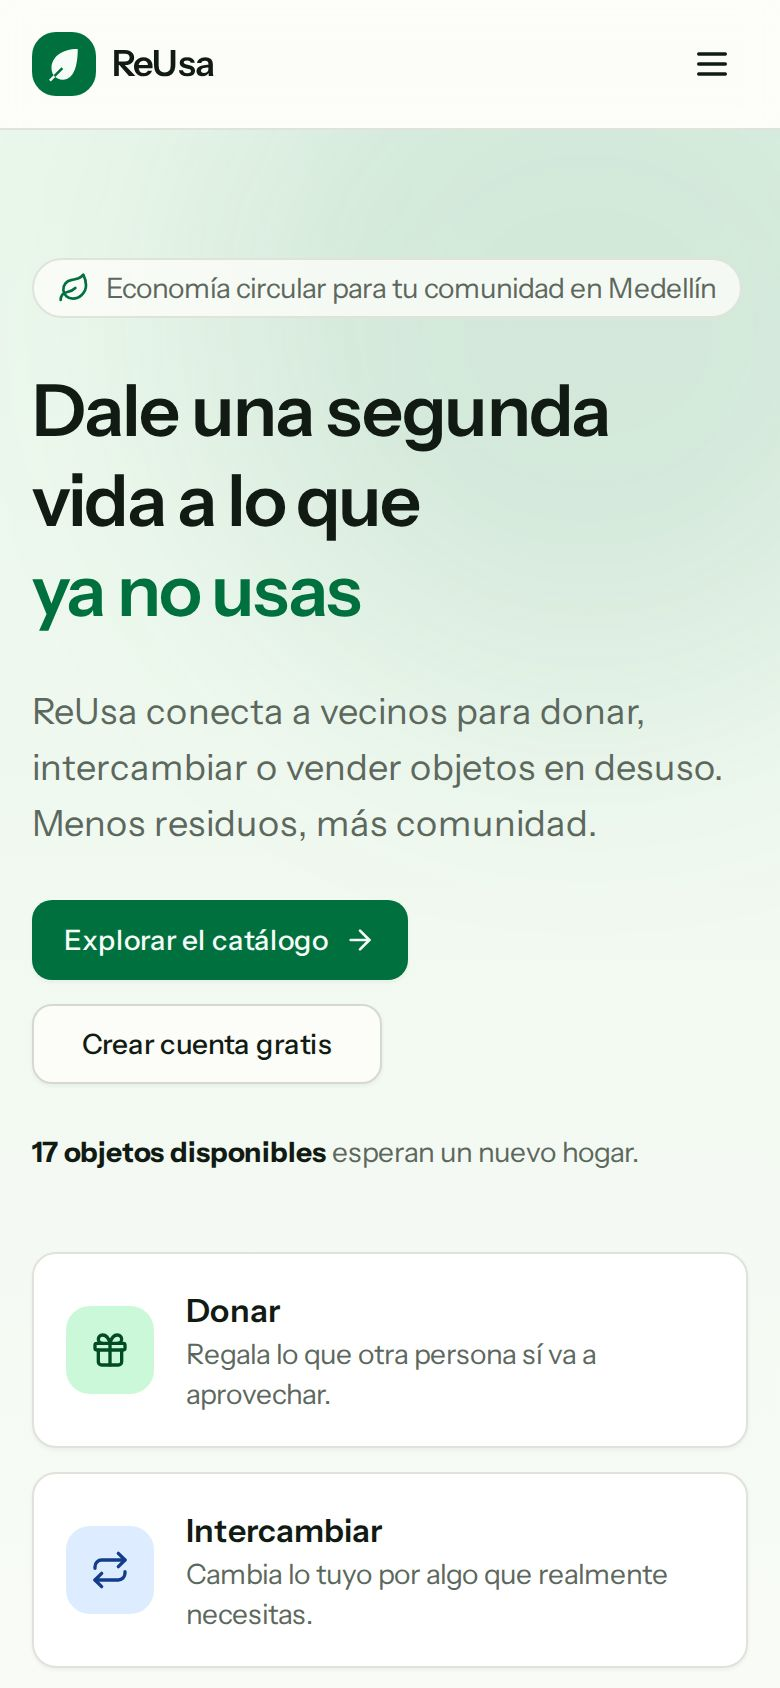
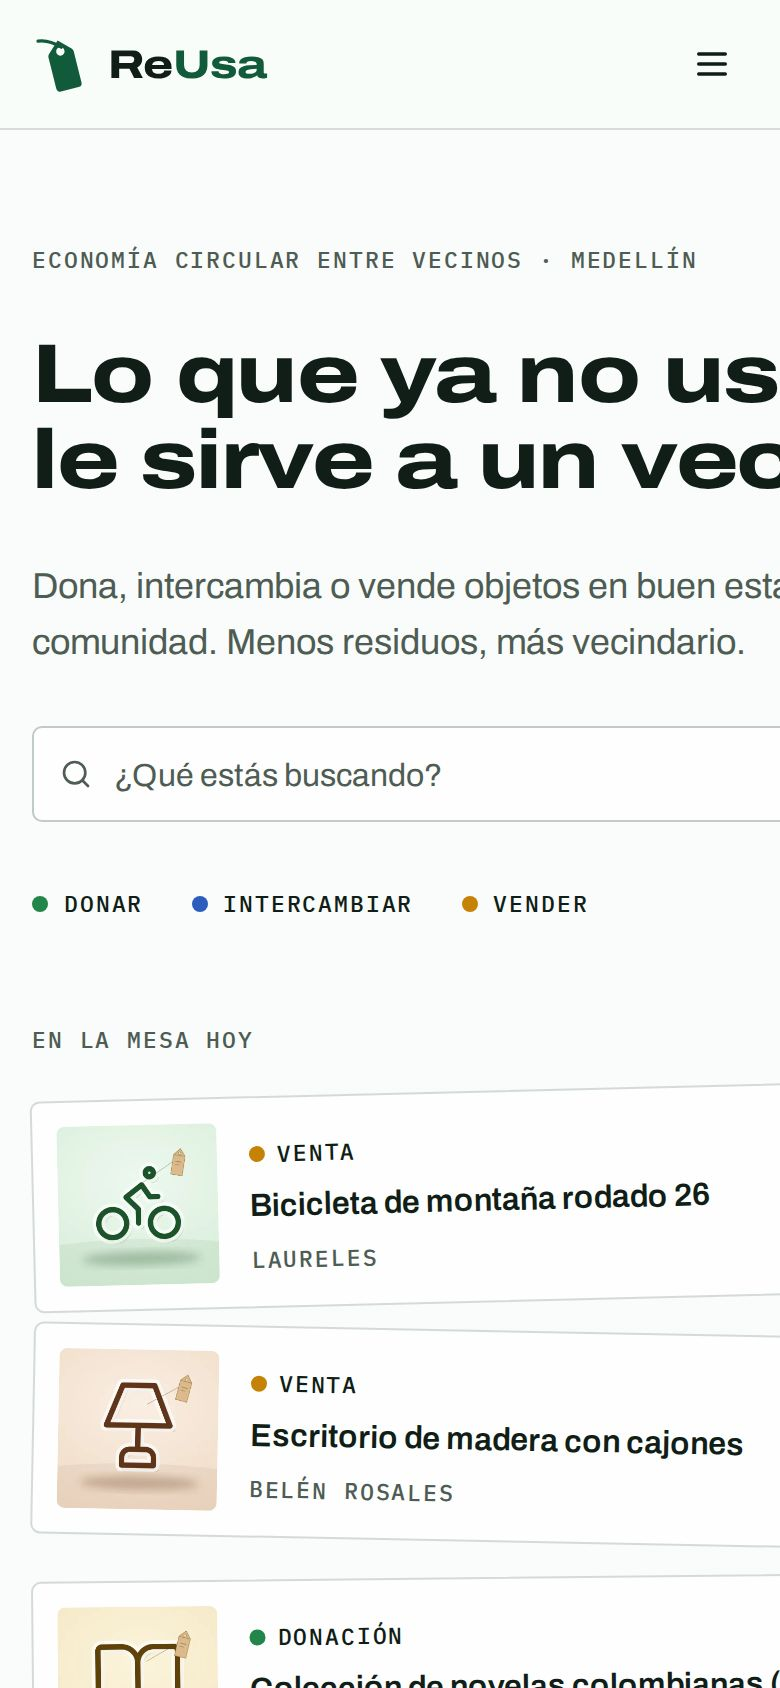
docs(ui): add reusa-ui skill, updated screenshots and demo image manifest
- .claude/skills/reusa-ui/SKILL.md: design principles, token reference,
  component inventory, anti-patterns, dataviz rules and pre-commit checklist
- .claude/skills/reusa-ui/scripts/screenshots.mjs: Playwright capture across
  desktop, mobile and dark mode for all routes
- .claude/skills/reusa-ui/scripts/a11y.mjs: axe-core WCAG 2.1 A/AA audit,
  light + dark, exits non-zero on violations
- .gitignore: version .claude/skills/ while ignoring the rest of .claude/
- docs/screenshots/: updated to reflect «mercado de barrio» redesign
- public/images/demo/manifest.json: updated image manifest
- resources/js/pages/my/publications.tsx: refined my-publications layout
- scripts/demo-images/generate.mjs: improved SVG composition for demo images

A11y audit result: 0 WCAG 2.1 A/AA violations across 18 page variants.

Claude-Session: https://claude.ai/code/session_01HQBp3FKy6KyTpdiKrQQMiQ

diff --git a/resources/js/pages/my/publications.tsx b/resources/js/pages/my/publications.tsx
@@ -156,7 +156,6 @@ export default function MyPublications({ publications, counts }: Props) {
                                                 publication.modality.value
                                             }
                                             price={publication.price}
-                                            className="text-sm text-foreground"
                                         />
                                         <span>
                                             {formatRelative(

diff --git a/.claude/skills/reusa-ui/SKILL.md b/.claude/skills/reusa-ui/SKILL.md
@@ -1,0 +1,92 @@
+---
+name: reusa-ui
+description: Sistema de diseño «Mercado de barrio» de ReUsa. Úsalo al crear o modificar cualquier pantalla, componente, color, tipografía o imagen de la interfaz de ReUsa (React/Inertia/Tailwind), o al revisar si la UI se ve genérica.
+---
+
+# ReUsa UI · «Mercado de barrio»
+
+La interfaz se inspira en el mercado de pulgas de Medellín: papel con un leve tinte verde, tinta
+verde botella, **etiquetas colgantes de kraft** para los precios y **sellos de caucho** para los
+estados. Debe sentirse como una tienda de barrio cuidada, no como una plantilla de SaaS.
+
+Documentación larga: `docs/DESIGN.md`. Tokens: `resources/css/app.css`.
+
+## Principios
+
+1. **El objeto manda.** La foto es lo más grande; no se le pone caja, sombra ni borde decorativo.
+2. **Cada recurso significa algo.** Kraft = precio. Sello = «algo le pasó al objeto» (reservado,
+   entregado, vendido). Punto de color = modalidad. Mono = dato (precio, barrio, fecha, cifra).
+3. **La estructura es información.** Numera solo secuencias reales (pasos, partes de un
+   formulario). Un rótulo en mono sobre un filete fino encabeza cada sección.
+4. **Una sola voz tipográfica fuerte.** Titulares anchos (`.type-display`); el resto, sobrio.
+5. **Tinta, no color, para el texto.** El texto nunca toma el color de la modalidad ni del
+   estado; el color acompaña (punto, barra, sello) y el significado siempre está en palabras.
+
+## Tokens (en `resources/css/app.css`)
+
+| Rol           | Token / clase                                                                  | Uso                                                                                    |
+| ------------- | ------------------------------------------------------------------------------ | -------------------------------------------------------------------------------------- |
+| Papel / tinta | `--background`, `--paper`, `--foreground`                                      | Fondo, zonas hundidas, texto                                                           |
+| Acento        | `--primary` (verde botella)                                                    | Acciones, enlaces de marca, barras de estado                                           |
+| Kraft         | `--kraft`, `--kraft-ink`, clase `.price-tag`                                   | **Solo** etiquetas de precio                                                           |
+| Sellos        | `--stamp-blue` (reservado), `--stamp-red` (entregado/vendido), `.status-stamp` | Estado no disponible                                                                   |
+| Nota pegada   | `--note`, `--note-ink`, `.paper-note`                                          | Avisos importantes (pago y entrega, productos no admitidos)                            |
+| Modalidades   | `--donation`, `--exchange`, `--sale`                                           | Puntos y barras. Validadas con `dataviz/scripts/validate_palette.js` en claro y oscuro |
+| Titular       | `.type-display` (Archivo, ancho 122 %, peso 780)                               | h1/h2; úsalo con moderación                                                            |
+| Rótulo        | `.type-label` (IBM Plex Mono, mayúsculas, 0.72 rem)                            | Etiquetas, categorías, barrio, fecha                                                   |
+| Ficha         | `.label-row` + `.leader`                                                       | Filas «Dato ······ Valor»                                                              |
+
+Radio base 6 px (`--radius`); sin sombras por defecto; bordes solo donde separan algo.
+Tipografías autoalojadas (`@fontsource`), sin CDN.
+
+## Componentes (`resources/js/components/`)
+
+- `market/price-tag.tsx`: precio en COP, «Gratis» o «Intercambio». `size="lg"` en el detalle.
+- `market/status-stamp.tsx`: sello con la palabra del estado; `tilt` lo inclina sobre fotos.
+  **No lo uses para «Disponible»**: ese estado va como `type-label` simple.
+- `market/modality-label.tsx`: punto de color + palabra.
+- `market/section-heading.tsx`: rótulo + filete + titular; `index` solo si es secuencia.
+- `publications/publication-card.tsx`: tarjeta del catálogo (sin caja).
+- `publications/cover-image.tsx`: foto o «etiqueta vacía» si no hay foto.
+- `brand.tsx`, `app-logo-icon.tsx`: marca de etiqueta colgante + «ReUsa» en Archivo ancha.
+- `lib/location.ts` → `neighborhood()`: el barrio va primero en cualquier ubicación.
+
+## Qué evitar (señales de «hecho por IA» en este proyecto)
+
+- Tarjetas con borde + radio + sombra para todo; iconos dentro de cuadros tintados.
+- Píldoras de color como etiquetas; badges con icono para cada atributo.
+- Héroe con «chip» superior, manchas difuminadas o degradados morados/azules.
+- Números gigantes decorativos en «Cómo funciona»; banners redondeados de cierre.
+- Cremas + serif + terracota; Inter/Space Grotesk; emojis como marcadores.
+- Centrar todo; usar el mismo radio y espaciado en cada bloque.
+- Texto con el color de la modalidad o del estado (falla contraste y daltonismo).
+
+## Reglas de datos (panel de administración)
+
+Aplican las de la skill `dataviz`: cifra protagonista sin caja de KPI; barras horizontales sobre
+una escala común, extremo de datos redondeado 4 px anclado a la base, rótulos directos en tinta
+de texto, tooltip por barra, nunca doble eje. Colores categóricos solo si pasan el validador:
+
+```bash
+node <dataviz>/scripts/validate_palette.js "#22864a,#2c5dbd,#c68206" --mode light --surface "#f9fcfa"
+node <dataviz>/scripts/validate_palette.js "#36ac62,#5889e6,#c68405" --mode dark  --surface "#121915"
+```
+
+## Imágenes de demostración
+
+`public/images/demo/*.webp` (versionadas). El seeder las copia a `storage/app/public`. Para
+regenerarlas: `node scripts/demo-images/generate.mjs`. Para fotos reales, reemplaza los archivos
+con el mismo nombre.
+
+## Antes de dar por terminado un cambio de UI
+
+1. `npm run check`, `npm run types:check`, `npm run build` y `php artisan test` en verde.
+2. Capturas de escritorio, móvil (390 px) y oscuro, y **mirarlas**:
+   `node .claude/skills/reusa-ui/scripts/screenshots.mjs <carpeta> [rutas…]`
+3. Accesibilidad WCAG 2.1 A/AA con axe, en claro y oscuro (debe dar 0 violaciones):
+   `node .claude/skills/reusa-ui/scripts/a11y.mjs`
+4. Revisar el contraste de cualquier color nuevo y que ningún estado dependa solo del color.
+
+Los scripts necesitan la app corriendo (`composer dev` o `php artisan serve --port=8000`) y
+Playwright (`npx playwright install chromium`; usa `PLAYWRIGHT_MODULE` si está instalado global).
+`BASE_URL` cambia la dirección (por defecto `http://127.0.0.1:8000`).
